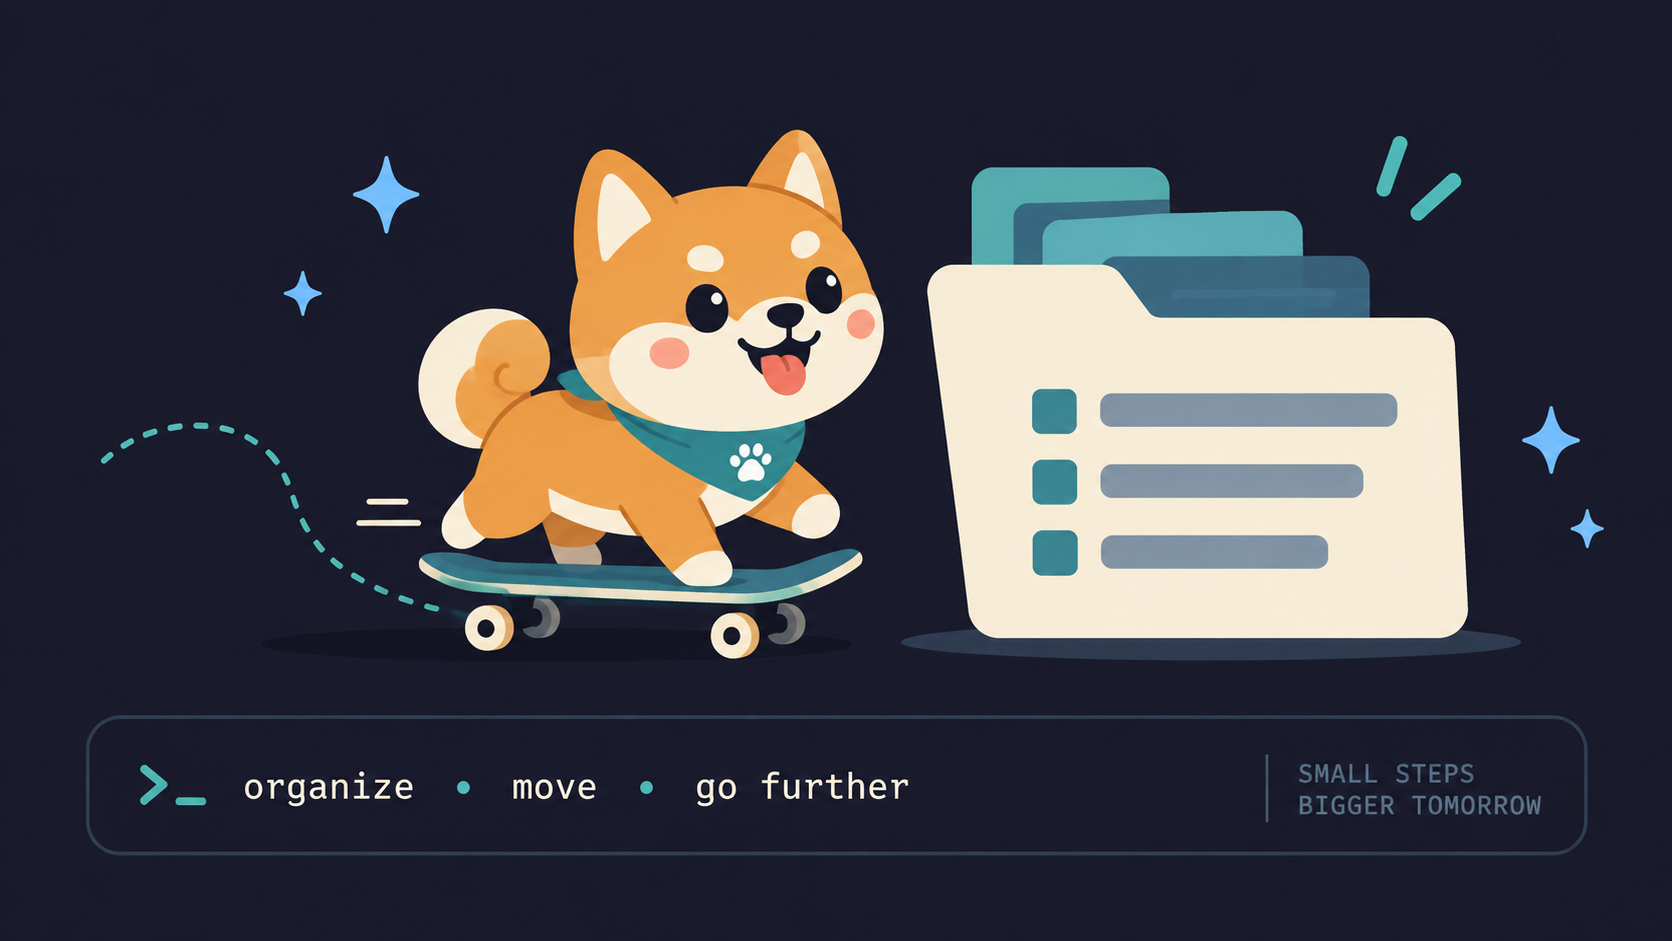
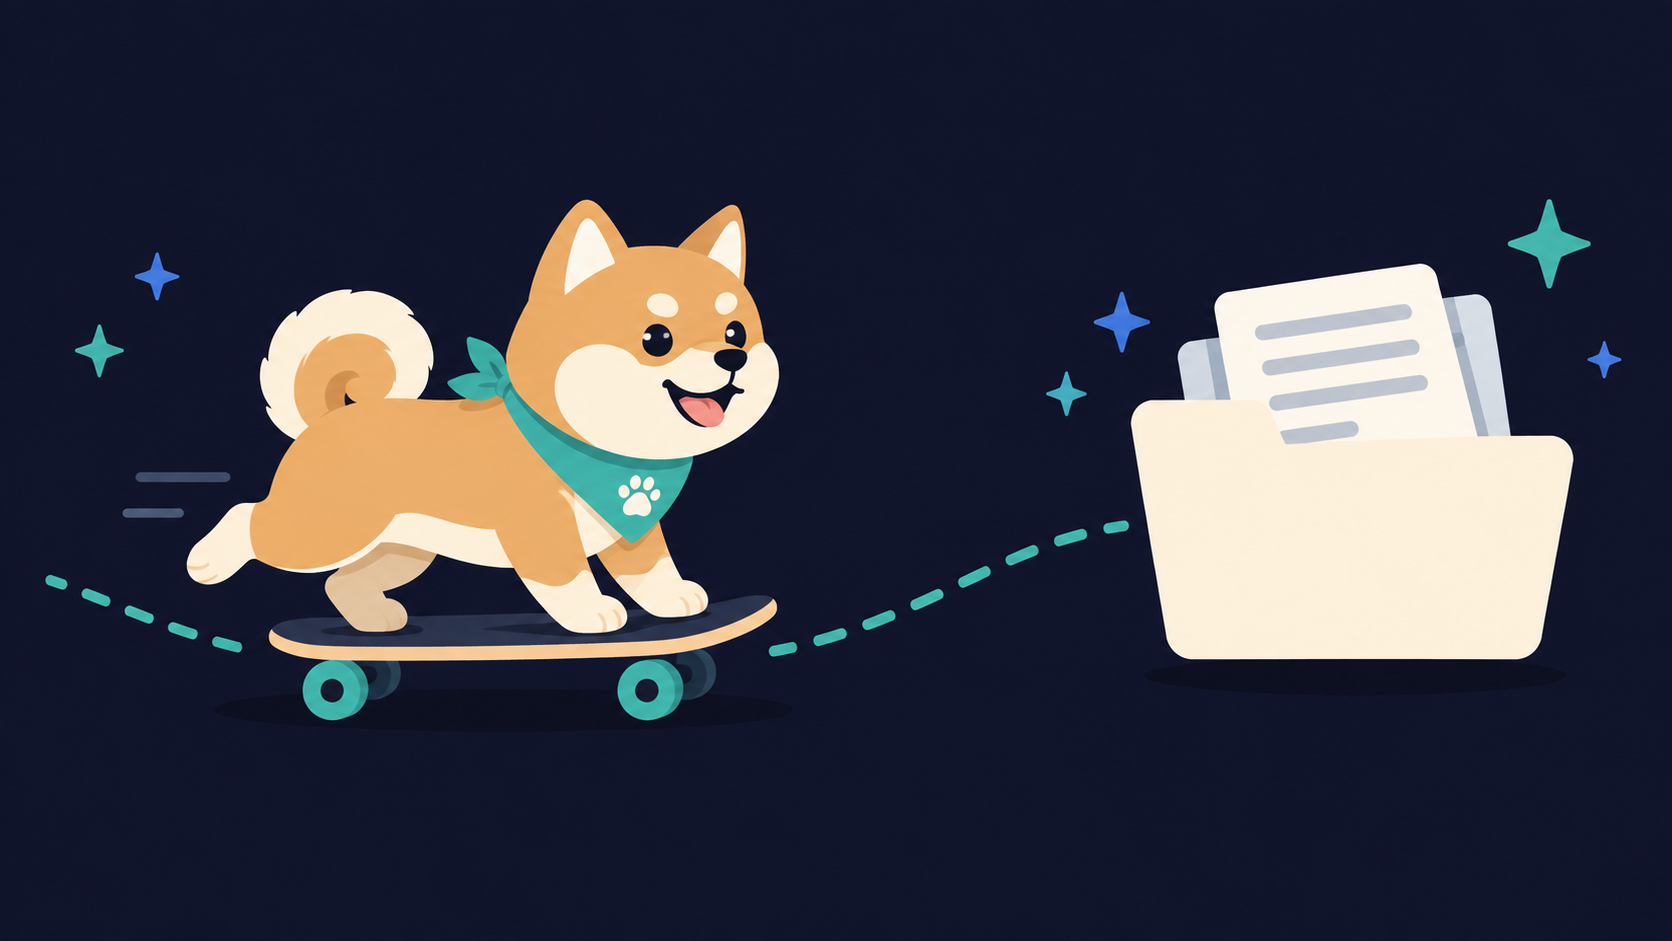
docs(web): telegram + discord integration docs, sidebar entries, marketing copy updates

diff --git a/apps/web/src/styles/theme.css b/apps/web/src/styles/theme.css
@@ -736,7 +736,9 @@ starlight-toc a[aria-current] {
 
 .arch-stage-cards {
   display: grid;
-  grid-template-columns: repeat(auto-fit, minmax(200px, 1fr));
+  /* auto-fit + 240px floor: fills the row width instead of leaving a dead
+     strip beside narrow cards at desktop widths. */
+  grid-template-columns: repeat(auto-fit, minmax(240px, 1fr));
   gap: 0.75rem;
   align-items: stretch;
 }
@@ -831,7 +833,7 @@ starlight-toc a[aria-current] {
   gap: 0.35rem;
 }
 
-@media (max-width: 48rem) {
+@media (max-width: 56rem) {
   .arch-stage {
     grid-template-columns: 1fr;
     gap: 0.75rem;
@@ -841,6 +843,24 @@ starlight-toc a[aria-current] {
     border-bottom: 1px solid var(--border-subtle);
     padding-right: 0;
     padding-bottom: 0.75rem;
+  }
+}
+
+@media (max-width: 30rem) {
+  .arch-container {
+    padding: 0.875rem;
+    margin: 1.5rem 0;
+  }
+  .arch-header {
+    flex-direction: column;
+    align-items: flex-start;
+    gap: 0.6rem;
+  }
+  .arch-connector-label {
+    font-size: 0.625rem;
+    padding: 0.2rem 0.5rem;
+    max-width: 100%;
+    text-align: center;
   }
 }
 

diff --git a/apps/backend/test/marketing-pages.test.ts b/apps/backend/test/marketing-pages.test.ts
@@ -13,7 +13,8 @@ describe.skipIf(!built)("new marketing pages", () => {
     const waitlist = page("waitlist/index.html");
     expect(why).toContain('href="https://tryshiba.dev/why-shiba/"');
     expect(waitlist).toContain('href="https://tryshiba.dev/waitlist/"');
-    expect(why).toContain("Cloudroom Core");
+    expect(why).toContain("How Shiba Compares to Devin Cloud");
+    expect(why).not.toMatch(/cloudroom/i);
     expect(waitlist).toContain('id="waitlist-form"');
     expect(waitlist).toContain('name="consent"');
     expect(waitlist).toContain('name="interest"');
